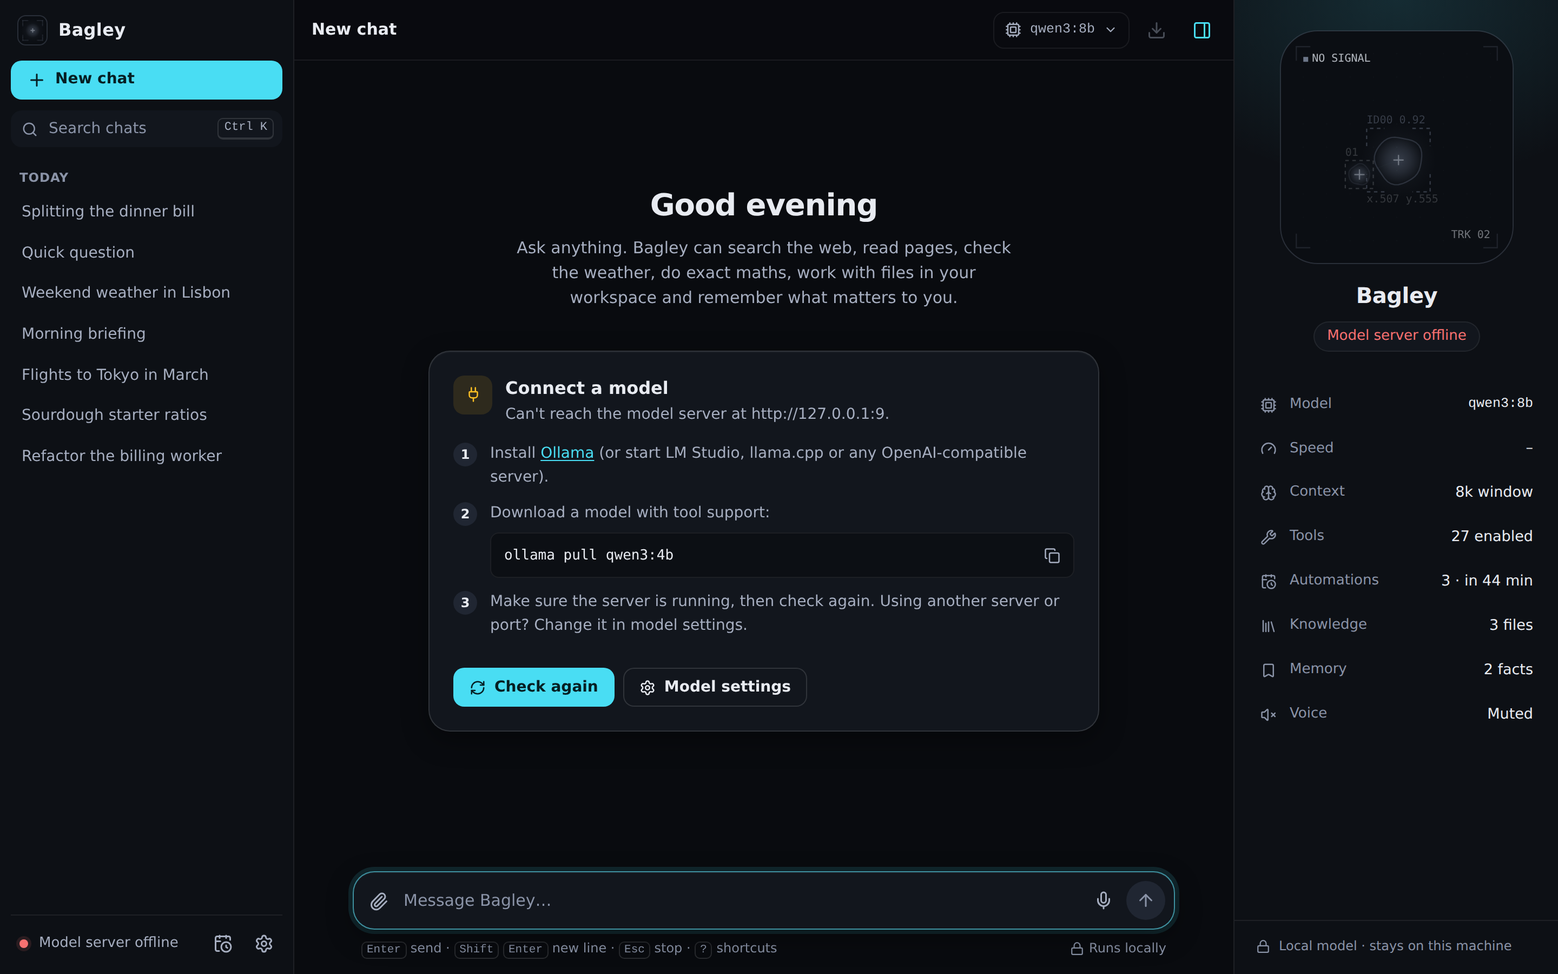
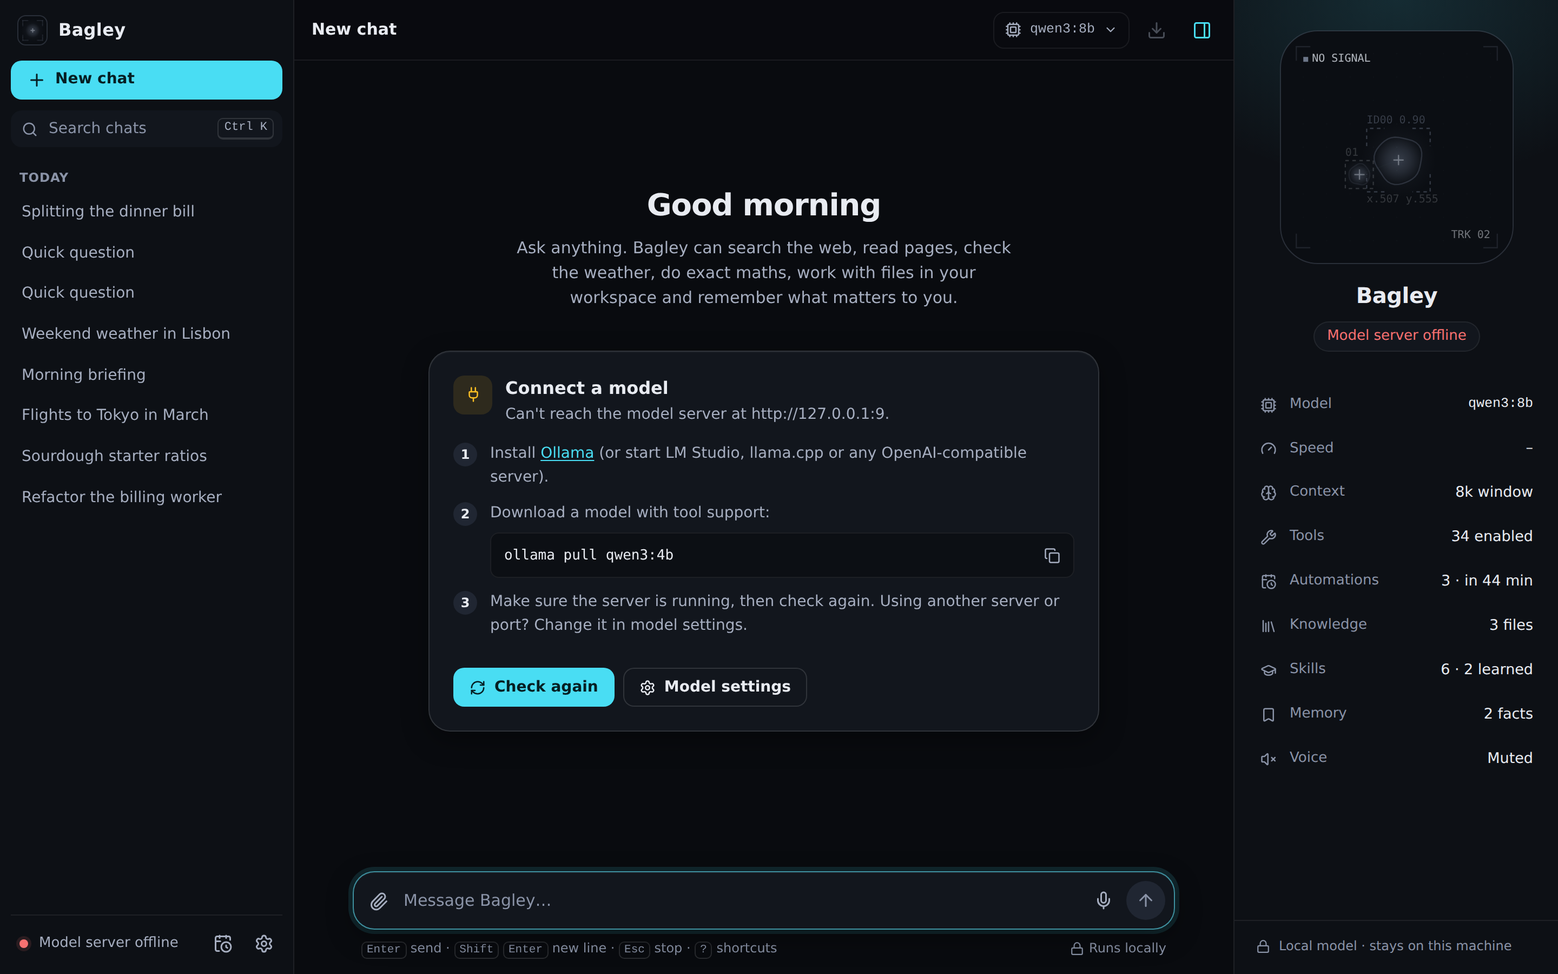
Document skills, helpers, Telegram and where to run the model
README covers the learning loop, skills, plans and questions, helper
agents, chat recall and the Telegram gateway, plus guidance on which
computer should run the model. New screenshots for an agentic reply,
the Skills tab and the Telegram tab.

Also: questions show "Waiting for your answer", learned skills list
first, and helpers without tool calls link to their transcript.

Claude-Session: https://claude.ai/code/session_01QNeZJoK4ckEYbpJXghXzNB

diff --git a/bagley/static/js/settings.js b/bagley/static/js/settings.js
@@ -674,7 +674,7 @@ export class Settings {
       connect.addEventListener("click", go);
       token.addEventListener("keydown", (e) => e.key === "Enter" && go());
       return box.replaceChildren(el("div", { class: "section" },
-        el("div", { class: "section-title", text: "1. Create a bot" }),
+        el("div", { class: "section-title", text: "Create a bot" }),
         el("p", { class: "help", style: "margin:0 0 10px" }, "In Telegram, message ", el("b", { text: "@BotFather" }), ", send ", el("code", { text: "/newbot" }), ", pick a name, and paste the token it gives you."),
         el("div", { class: "inline" }, token, connect),
         t.locked ? el("div", { class: "help", text: "Set by BAGLEY_TELEGRAM_TOKEN." }) : null,
@@ -693,7 +693,7 @@ export class Settings {
       const code = t.code;
       const link = `https://t.me/${t.bot}?start=${code.replace("-", "")}`;
       sections.push(el("div", { class: "section" },
-        el("div", { class: "section-title", text: "2. Pair your phone" }),
+        el("div", { class: "section-title", text: "Pair your phone" }),
         el("p", { class: "help", style: "margin:0 0 10px" }, "Open the link on your phone, or send ", el("code", { class: "mono", text: `/pair ${code}` }), ` to @${t.bot}. Each code pairs one chat and expires after 15 minutes.`),
         el("div", { class: "inline" },
           el("a", { class: "btn btn-primary btn-sm", href: link, target: "_blank", rel: "noopener" }, icon("external-link", "icon-sm"), "Open in Telegram"),

diff --git a/bagley/static/js/chat.js b/bagley/static/js/chat.js
@@ -134,7 +134,7 @@ function toolExtras(card, detail, ui) {
       el("li", { class: t.ok ? "ok" : "failed" },
         icon(t.ok ? "circle-check" : "circle-x", "icon-sm"),
         el("span", { class: "grow", text: t.task }),
-        el("a", { href: `#/c/${t.conversation_id}`, title: "See how the helper worked it out", text: `${t.tool_calls} tool call${t.tool_calls === 1 ? "" : "s"}` })))), detail);
+        el("a", { href: `#/c/${t.conversation_id}`, title: "See how the helper worked it out", text: t.tool_calls ? `${t.tool_calls} tool call${t.tool_calls === 1 ? "" : "s"}` : "transcript" })))), detail);
   }
   if (ui.images?.length) {
     const media = el("div", { class: "tool-media" }, ...ui.images.map((img) =>
@@ -463,7 +463,7 @@ export class Chat {
   onStatus(ev) {
     if (!state.run) return;
     state.run.status = ev.state;
-    let label;
+    let label = ev.label;
     if (ev.state === "tool") {
       const card = [...(this.live?.cards.values() || [])].pop();
       label = card?.card.querySelector(".tool-summary")?.textContent;

diff --git a/scripts/screenshots.py b/scripts/screenshots.py
@@ -176,6 +176,102 @@ def capture(stack: DemoStack) -> None:
         page.screenshot(path=OUT / "chart.png")
         page.context.close()
 
+        # 8b. Agentic reply: a plan, helper agents and a question.
+        page = page_for(1440, 900)
+        steps = ["Research both tools", "Compare them for a laptop", "Recommend one"]
+        stack.mock.script = [
+            Reply(
+                reasoning="Two tools to research. Helpers can read about each one separately.",
+                tool_calls=[
+                    (
+                        "update_plan",
+                        {"steps": [f"[>] {steps[0]}", *[f"[ ] {x}" for x in steps[1:]]]},
+                    )
+                ],
+            ),
+            Reply(
+                tool_calls=[
+                    (
+                        "delegate_task",
+                        {
+                            "tasks": [
+                                "Summarise Ollama: platforms, GPU support, model library, API.",
+                                "Summarise LM Studio: platforms, GPU support, model library, API.",
+                            ],
+                            "context": "The user wants to run local models on a laptop.",
+                        },
+                    )
+                ]
+            ),
+            Reply(text="Ollama runs as a background service with a CLI and an HTTP API."),
+            Reply(
+                text="LM Studio is a desktop app with a model browser and an OpenAI-style server."
+            ),
+            Reply(
+                tool_calls=[
+                    (
+                        "update_plan",
+                        {"steps": [f"[x] {steps[0]}", f"[x] {steps[1]}", f"[>] {steps[2]}"]},
+                    )
+                ]
+            ),
+            Reply(
+                tool_calls=[
+                    (
+                        "ask_user",
+                        {
+                            "question": "What matters most on your laptop?",
+                            "options": ["Battery life", "Ease of use", "Raw speed"],
+                        },
+                    )
+                ]
+            ),
+            Reply(
+                text="Then **Ollama**: it idles at almost no power and unloads models when unused."
+            ),
+        ]
+        page.fill("#composer-input", "Compare Ollama and LM Studio for running models on my laptop")
+        page.keyboard.press("Enter")
+        page.wait_for_selector(".question .question-options .btn", timeout=20000)
+        page.wait_for_timeout(900)
+        page.screenshot(path=OUT / "agent.png")
+        page.click(".question-options >> text=Battery life")
+        page.wait_for_selector("#send-btn:not(.stop)", timeout=20000)
+
+        # 8c. Skills, two of them learned.
+        stack.runtime.skills.save(
+            "split-a-bill",
+            "Split a restaurant bill with tip between several people and round each share.",
+            "1. calculate the total with the tip.\n2. Divide by the number of people.\n3. Round up.",
+            source="learned",
+        )
+        stack.runtime.skills.save(
+            "weekly-report",
+            "Draft the Friday status report from this week's notes and closed tasks.",
+            "1. search_knowledge for this week's notes.\n2. Group by project.\n3. Keep it short.",
+            source="learned",
+        )
+        page.reload()
+        page.wait_for_selector(".conn .dot.ok")
+        page.keyboard.press("Control+,")
+        page.click("#tab-skills")
+        page.wait_for_selector(".skill-row")
+        page.wait_for_timeout(400)
+        page.screenshot(path=OUT / "skills.png")
+
+        # 8d. Telegram, connected and paired.
+        from tests.fake_telegram import GOOD_TOKEN
+
+        httpx.put(f"{url}api/telegram", json={"token": GOOD_TOKEN})
+        page.click("#tab-telegram")
+        page.wait_for_selector(".pair-code")
+        code = page.locator(".pair-code").inner_text()
+        stack.telegram.say(4242, f"/pair {code}", name="Ana")
+        page.wait_for_selector(".telegram-chat")
+        page.wait_for_timeout(600)
+        page.screenshot(path=OUT / "telegram.png")
+        page.context.close()
+
         # 9. Light theme.
         page = page_for(1440, 900, theme="light")
         page.click(".conv-link >> text=Weekend weather in Lisbon")

diff --git a/bagley/server.py b/bagley/server.py
@@ -179,7 +179,8 @@ class ChatSession:
         qid = uuid.uuid4().hex[:12]
         fut: asyncio.Future[str] = asyncio.get_running_loop().create_future()
         self.questions[qid] = fut
-        await self.emit({"type": "status", "state": "approval"})  # The avatar waits on the user.
+        # The avatar waits on the user, as for an approval.
+        await self.emit({"type": "status", "state": "approval", "label": "Waiting for your answer"})
         await self.emit({"type": "question", "id": qid, "question": question, "options": options})
         try:
             return await asyncio.wait_for(fut, timeout=APPROVAL_TIMEOUT) or None
@@ -700,7 +701,7 @@ def create_app(runtime: Runtime | None = None, config: ServerConfig | None = Non
 
     @app.get("/api/skills")
     async def list_skills() -> list[dict[str, Any]]:
-        return [s.summary() for s in rt().skills.all()]
+        return rt().skills.index(limit=500)  # Yours and learned first, newest first.
 
     @app.get("/api/skills/{name}")
     async def get_skill(name: str) -> dict[str, Any]:

diff --git a/README.md b/README.md
@@ -22,6 +22,8 @@ Bagley is a personal assistant that runs against a model on your own computer. I
 
 Because it runs on your machine, it can do things a hosted chat app cannot. It keeps working when no window is open: reminders, scheduled tasks and page watchers run in the background and notify you. It searches your own documents by meaning, not just keywords. It edits files with a diff and a one-click undo, runs Python and shows the charts inline, and can check what is slowing your computer down.
 
+It also gets better with use, in the spirit of [Hermes Agent](https://github.com/NousResearch/hermes-agent). After a task that takes several steps, it writes the procedure down as a skill and improves that skill the next time it follows it. For bigger jobs it keeps a visible plan, asks you when a choice matters, hands research to helper agents with a fresh context, and looks up earlier conversations. You can talk to it from your phone through your own Telegram bot.
+
 It is a single Python package with no build step. The server is FastAPI, the UI is plain JavaScript, and everything is stored in one SQLite file.
 
 ## Features
@@ -32,6 +34,11 @@ It is a single Python package with no build step. The server is FastAPI, the UI 
 | **Local models** | Native Ollama support (context size, reasoning, one-click model downloads) and any OpenAI-compatible server: LM Studio, llama.cpp, vLLM, LocalAI, Jan, OpenRouter, OpenAI. |
 | **Agent loop** | Multi-step tool calling with streaming, cancellation, step limits and approvals. Models without native function calling use a text-based tool protocol automatically. |
 | **Built-in tools** | Web search, page reader, weather, calculator, time zones, workspace files, long-term memory, optional shell. |
+| **Skills that it learns** | Reusable procedures in the open `SKILL.md` format. After a reply that took five or more tool calls, Bagley reviews what it did in the background and saves a skill, or improves the one it followed, plus any lasting facts you told it. Four skills ship with it; skills written for other agents can be dropped in. |
+| **Plans and questions** | For multi-step tasks it shows a live checklist, and when a choice matters it asks with option buttons instead of guessing. |
+| **Helper agents** | `delegate_task` hands up to five subtasks to helpers that start with an empty context, so long reading doesn't fill the conversation. Only their answers come back; each helper's transcript is one click away. |
+| **Recall** | `search_chats` finds and reads earlier conversations ("what did we decide about the trip?"). |
+| **Telegram** | Chat with Bagley from your phone through your own bot: approvals and questions as buttons, charts as photos, reminders and automation results as messages. Outbound only, paired with a one-time code. |
 | **Automations** | Reminders, scheduled tasks ("weekdays at 8:00, give me the weather and my calendar notes") and web page watchers ("tell me when this price drops"). They run in the background, post into their own chat and notify you, also as a desktop notification. Create them in chat or under **Settings → Automations**. |
 | **Knowledge base** | Indexes your workspace and any folders you add (text, Markdown, code, HTML, PDF) into a local full-text index. With an embedding model installed (`ollama pull nomic-embed-text`) it also searches by meaning. Answers cite the files they came from. |
 | **Undoable file changes** | Every write, edit, move and delete is journaled. Tool cards show a diff, and **Revert** restores the previous version. Deleted files are kept in the journal, not destroyed. |
@@ -77,24 +84,31 @@ This opens <http://127.0.0.1:8765>. If no model server is found, the start scree
 
 <table>
   <tr>
-    <td width="50%"><img src="docs/screenshots/chart.png" alt="A chart made by run_python shown inside the chat"><br><sub>Python runs in the workspace and its charts appear in the chat.</sub></td>
-    <td width="50%"><img src="docs/screenshots/diff.png" alt="A file edit with a diff and a Revert button"><br><sub>File changes show a diff and can be reverted.</sub></td>
+    <td width="50%"><img src="docs/screenshots/agent.png" alt="A reply with a plan checklist, two helper agents and a question with option buttons"><br><sub>A plan, helper agents doing the reading, and a question when a choice matters.</sub></td>
+    <td width="50%"><img src="docs/screenshots/skills.png" alt="Skills settings with built-in and learned skills"><br><sub>Skills it learned from earlier tasks, next to the built-in ones.</sub></td>
   </tr>
   <tr>
+    <td width="50%"><img src="docs/screenshots/telegram.png" alt="Telegram settings with a connected bot, a pairing code and a paired phone"><br><sub>Your own Telegram bot, paired with a one-time code.</sub></td>
+    <td width="50%"><img src="docs/screenshots/chart.png" alt="A chart made by run_python shown inside the chat"><br><sub>Python runs in the workspace and its charts appear in the chat.</sub></td>
+  </tr>
+  <tr>
+    <td><img src="docs/screenshots/diff.png" alt="A file edit with a diff and a Revert button"><br><sub>File changes show a diff and can be reverted.</sub></td>
     <td><img src="docs/screenshots/automations.png" alt="Automations settings with a scheduled task, a reminder and a page watcher"><br><sub>Scheduled tasks, reminders and page watchers.</sub></td>
+  </tr>
+  <tr>
     <td><img src="docs/screenshots/knowledge.png" alt="Knowledge settings with indexed folders and search results"><br><sub>Knowledge base with keyword and semantic search.</sub></td>
+    <td><img src="docs/screenshots/settings.png" alt="Model settings"><br><sub>Model settings, installed models and what is loaded in memory.</sub></td>
   </tr>
   <tr>
     <td width="50%"><img src="docs/screenshots/approval.png" alt="Approval prompt before writing a file"><br><sub>Actions that change things wait for approval.</sub></td>
     <td width="50%"><img src="docs/screenshots/empty.png" alt="Start screen with suggestions"><br><sub>Start screen.</sub></td>
   </tr>
   <tr>
-    <td><img src="docs/screenshots/settings.png" alt="Model settings"><br><sub>Model settings, installed models and what is loaded in memory.</sub></td>
     <td><img src="docs/screenshots/onboarding.png" alt="Setup card when no model server is running"><br><sub>First run without a model server. The tracker reads NO SIGNAL.</sub></td>
+    <td><img src="docs/screenshots/light.png" alt="Light theme"><br><sub>Light theme.</sub></td>
   </tr>
   <tr>
-    <td><img src="docs/screenshots/light.png" alt="Light theme"><br><sub>Light theme.</sub></td>
-    <td align="center"><img src="docs/screenshots/mobile.png" alt="Phone layout" width="220"><br><sub>Phone layout.</sub></td>
+    <td align="center" colspan="2"><img src="docs/screenshots/mobile.png" alt="Phone layout" width="220"><br><sub>Phone layout.</sub></td>
   </tr>
 </table>
 
@@ -143,6 +157,12 @@ On macOS use <kbd>⌘</kbd> instead of <kbd>Ctrl</kbd>.
 | `make_directory` | Create a folder in the workspace | |
 | `search_knowledge` `read_document` | Search and read your indexed documents | |
 | `remember` `forget` | Long-term memory, injected into every conversation | |
+| `update_plan` | Show a checklist for a multi-step task and keep it current | |
+| `ask_user` | Ask you a question, with option buttons, and wait for the answer | |
+| `search_chats` | Search and read earlier conversations | |
+| `delegate_task` | Hand subtasks to helper agents with a fresh context | |
+| `read_skill` | Load a saved procedure before a matching task | |
+| `save_skill` `delete_skill` | Write, improve or remove a skill | ✓ |
 | `set_reminder` `list_automations` `cancel_automation` | Reminders and managing automations | |
 | `schedule_task` `watch_webpage` | Create a recurring task or a page watcher | ✓ |
 | `system_status` | CPU, memory, disk, battery, uptime and the busiest processes | |
@@ -157,6 +177,20 @@ Tools can be switched off individually in **Settings → Tools**. File tools can
 Ask in plain language ("remind me in 20 minutes to check the oven", "every weekday at 8:00 summarise the news on Rust", "watch this page and tell me when the price changes") or use **Settings → Automations**. Schedules accept forms like `in 45 minutes`, `at 18:30`, `tomorrow at 9am`, `every 2 hours`, `daily at 07:30`, `weekdays at 09:00` and `mondays, thursdays at 18:00`.
 
 Automations run while Bagley is running. A run that was missed while it was off happens once at the next start. Unattended runs are restricted (see [Security](#security)); a refused tool call is recorded in the automation's chat.
+
+### Skills and learning
+
+A skill is a folder with a `SKILL.md` file: front matter with a `name` and a one-line `description`, then Markdown steps. Bagley lists every skill in its instructions and reads the full text with `read_skill` when one matches the request. Four ship with it (`research-a-question`, `morning-briefing`, `analyze-a-spreadsheet`, `tidy-a-folder`). Yours live in `~/.bagley/skills/`, where skills written for other agents in the same format also work.
+
+Learning happens after a reply that took five or more tool calls. Bagley looks back at your request, the tools it called and its answer, then saves a new skill, improves the skill it followed, or remembers a fact you stated about yourself. It never sees tool results while doing this, so a web page can't plant a skill or a memory. Each time it learns something you get a notification, and everything it saved is listed in **Settings → Skills** and **Settings → Memory**, where you can edit or delete it, or switch learning off.
+
+### Telegram
+
+1. In Telegram, message **@BotFather**, send `/newbot` and copy the token.
+2. Paste it in **Settings → Telegram** (or set `BAGLEY_TELEGRAM_TOKEN`).
+3. Open the pairing link on your phone, or send the bot `/pair` and the code shown in Settings. Each code pairs one chat and expires after 15 minutes. Messages from chats that aren't paired get no further than a pairing hint.
+
+Then talk to it as in the app. `/new` starts a new chat and `/stop` cancels a reply. Approvals and `ask_user` questions arrive as buttons, charts from `run_python` as photos, and reminders and automation results as messages. Bagley polls Telegram over HTTPS, so nothing has to be reachable from the internet, but it only answers while it is running.
 
 ### Knowledge base
 
@@ -174,6 +208,14 @@ Bagley picks the first installed model that supports tools unless you choose one
 | `gpt-oss:20b` | 14 GB | Best quality of these. Needs about 16 GB of memory. |
 
 Models without native function calling (for example `gemma2`) still get tools through the text-based protocol. You can force a mode under **Settings → Model → Tool calling**.
+
+The agentic features (plans, helpers, learning) work with small models but are noticeably more reliable from about 8B parameters up, with a context window of 16k tokens or more.
+
+### Which computer runs the model
+
+Run the model on the machine with the most GPU memory (VRAM), or on a Mac with the most unified memory. Speed comes from fitting the whole model in that memory: a desktop with an 8 to 12 GB graphics card runs `qwen3:8b` comfortably and `qwen3:14b` with 12 GB or more. A laptop with integrated graphics runs `qwen3:4b` on the CPU, slowly. Automations and Telegram need Bagley to be running, so the machine that stays on is the better home for both.
+
+Bagley and the model can also be on different machines. Run Ollama on the desktop with `OLLAMA_HOST=0.0.0.0`, then point Bagley at it from the laptop with `BAGLEY_BASE_URL=http://<desktop-ip>:11434`.
 
 ### Other servers
 
@@ -220,10 +262,11 @@ Settings changed in the UI are stored in the database. Environment variables (or
 | `BAGLEY_PYTHON` | Bagley's own | Python interpreter for `run_python`, e.g. a venv with pandas and matplotlib |
 | `BAGLEY_ALLOW_PRIVATE_URLS` | `false` | Let web tools reach private addresses |
 | `BAGLEY_SEARXNG_URL` | | Use SearXNG for web search |
+| `BAGLEY_TELEGRAM_TOKEN` | | Telegram bot token from @BotFather |
 
 </details>
 
-Data lives in `~/.bagley`: `bagley.db` (chats, memories, settings, automations, file change journal), `knowledge.db` (search index), `journal/` (previous versions of changed files), `workspace/`, `plugins/` and `mcp.json`. Deleted chats can be restored with Undo; they are purged on the first start more than 24 hours after deletion.
+Data lives in `~/.bagley`: `bagley.db` (chats, memories, settings, automations, file change journal), `knowledge.db` (search index), `journal/` (previous versions of changed files), `skills/` (your and learned skills), `workspace/`, `plugins/` and `mcp.json`. Deleted chats can be restored with Undo; they are purged on the first start more than 24 hours after deletion.
 
 ## Extending
 
@@ -279,6 +322,9 @@ Bagley can act on your behalf, so it is locked down by default:
 - File changes, `run_command`, `run_python`, new scheduled tasks and watchers, and untrusted MCP tools wait for your approval. Shell and Python access are off unless you enable them, and stopping a command ends everything it started.
 - Automations run without you watching. During those runs, tools that need approval are denied, and memories, automations and folders can't be changed. Once a run has read web content it can't read your files or notes, and it can only open pages from its search results. Watcher instructions run with no tools at all. Text on a web page therefore can't send your data anywhere.
 - Every file change is journaled with the previous version, so a bad edit can be reverted.
+- Helper agents run under the same rules as automations, can't ask you anything, and can't start helpers of their own.
+- The learning loop only sees your words, the names and arguments of the tools it called, and its own answer, never tool results. Saving a skill from a chat asks first.
+- Telegram serves only chats paired with a one-time code. Taps from any other chat are ignored, and the bot token is stored like the API key and never sent to the browser.
 - A saved API key is cleared when the server URL changes, and a key set through `BAGLEY_API_KEY` locks the server URL, so the key only goes where you configured it.
 - The UI loads nothing from the internet and sends a strict Content-Security-Policy. Model output is sanitized: no images, frames or forms, so a prompt-injected page can't make the browser leak data.
 
@@ -288,7 +334,11 @@ Bagley can act on your behalf, so it is locked down by default:
 flowchart LR
   UI["Web UI<br/>vanilla JS, canvas avatar"] <-- "WebSocket events" --> S["FastAPI server"]
   CLI["bagley chat / ask"] --> A
+  TG["Telegram gateway"] --> A
   S --> A["Agent loop"]
+  A --> H["Helper agents"]
+  A -. "after complex tasks" .-> L["Learning loop"]
+  L --> SK[("Skills<br/>SKILL.md")]
   SC["Scheduler<br/>tasks, reminders, watchers"] --> A
   S --> SC
   A <--> P{"Provider"}
@@ -313,14 +363,20 @@ bagley/
 ├── automations.py    Schedule parser and background scheduler
 ├── cli.py            bagley serve | chat | ask | doctor
 ├── config.py         Server config and user preferences (env + database)
+├── delegation.py     Helper agents with a fresh context
 ├── journal.py        File change journal, diffs and revert
 ├── knowledge.py      Document index: FTS5, embeddings, rank fusion
+├── learning.py       Reflection after complex tasks: skills and facts
 ├── mcp.py            MCP stdio client
+├── policy.py         Limits for runs nobody is watching
 ├── prompts.py        Personas, system prompt, text-based tool protocol
 ├── runtime.py        Shared state: store, tools, provider, scheduler, notifications
 ├── server.py         HTTP API, WebSocket sessions, security middleware
+├── skills.py         SKILL.md store (built-in, yours, learned)
 ├── store.py          SQLite persistence
+├── telegram.py       Telegram gateway
 ├── toolroute.py      On-demand tool loading
+├── builtin_skills/   Skills that ship with Bagley
 ├── llm/              Ollama and OpenAI-compatible providers, stream parser
 ├── tools/            Registry, @tool decorator and built-in tools
 └── static/           Web UI (HTML, CSS, JS modules, vendored marked and DOMPurify)
